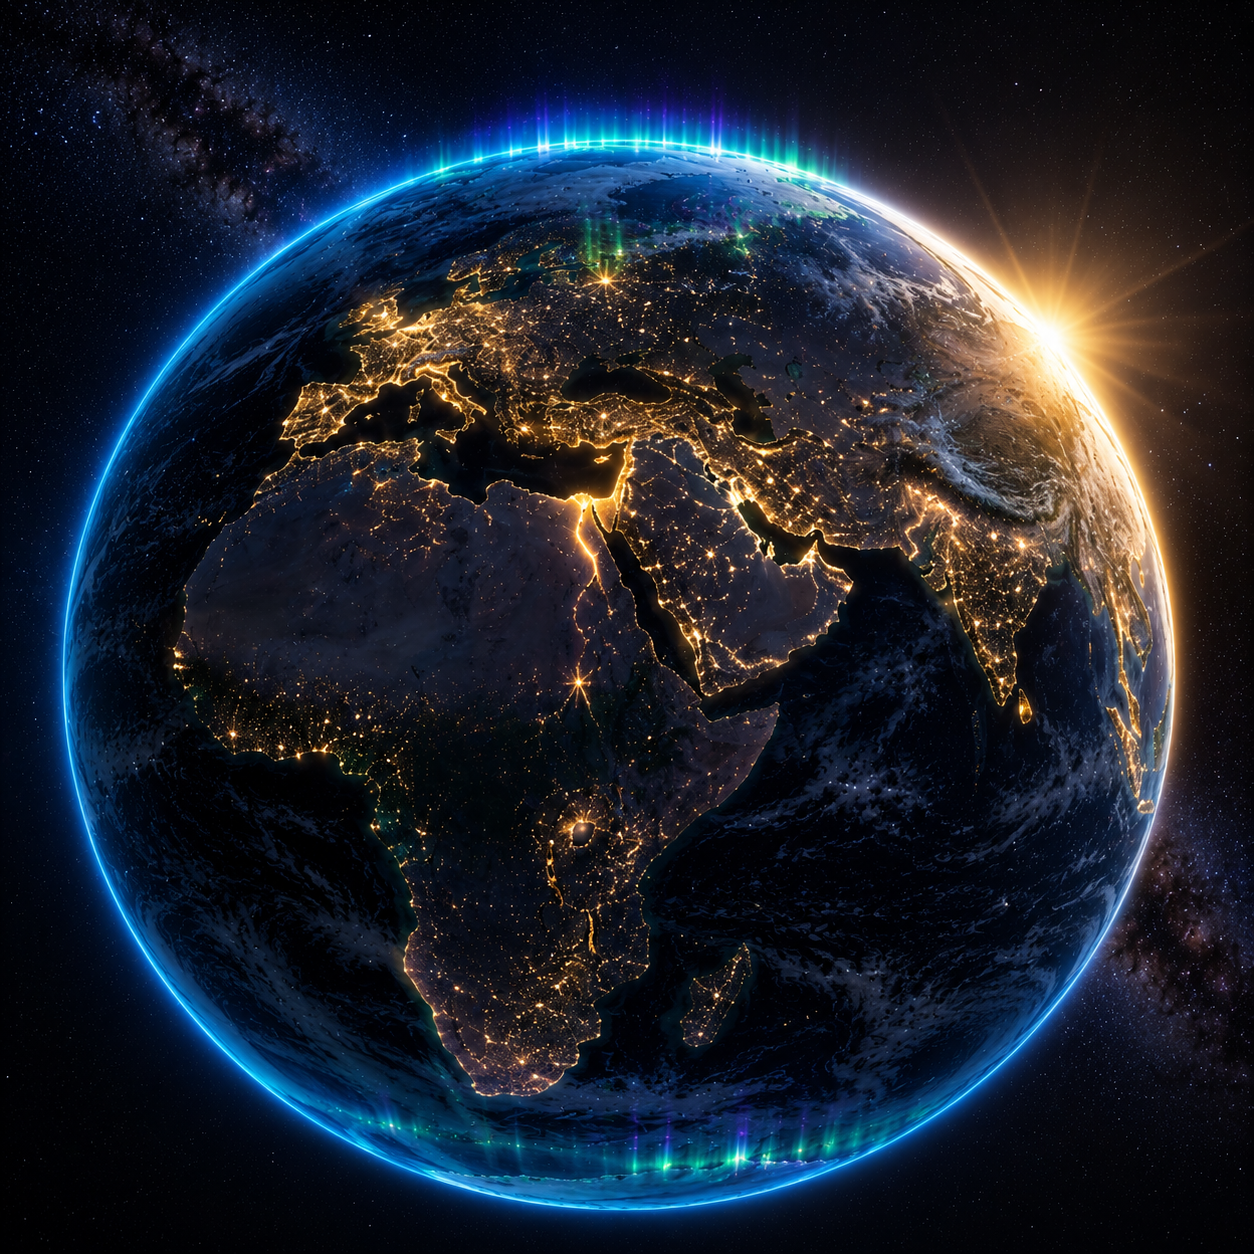
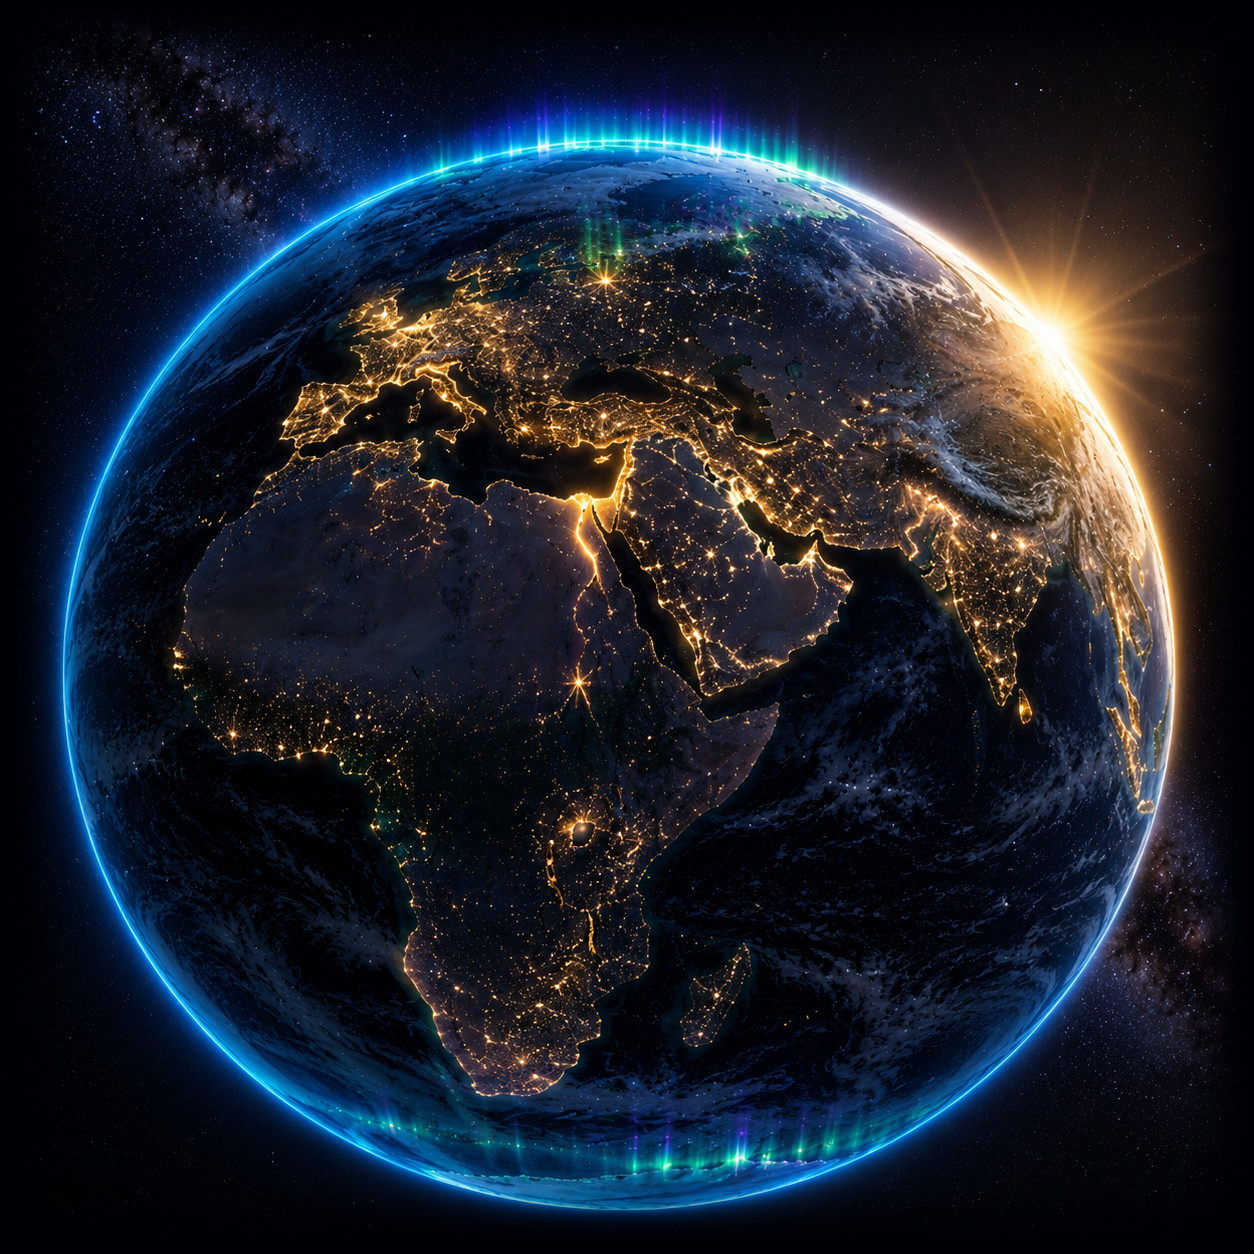
Sfondo: niente più bordi delle immagini durante lo scorrimento
- globo e terra: bordi sfumati nel nero dello sfondo (prima si vedeva il taglio verticale)
- terra e piramidi riempiono sempre lo schermo (scala minima 1.0, terra in cover)
- le due immagini erano PNG con estensione .jpg: ora JPEG veri (4,2 MB -> 0,7 MB)

diff --git a/components/SpaceScene.tsx b/components/SpaceScene.tsx
@@ -4,8 +4,8 @@ import { useEffect, useRef } from "react";
 
 const layers = [
   { src: "/3-globe.jpg", depthStart: 0, depthEnd: 0.35, scaleStart: 0.55, scaleEnd: 1.5, opacityStart: 1, opacityEnd: 0 },
-  { src: "/4-earth.jpg", depthStart: 0.25, depthEnd: 0.65, scaleStart: 0.7, scaleEnd: 1.5, opacityStart: 0, opacityEnd: 0 },
-  { src: "/5-pyramids.jpg", depthStart: 0.55, depthEnd: 1.0, scaleStart: 0.9, scaleEnd: 1.1, opacityStart: 0, opacityEnd: 1 },
+  { src: "/4-earth.jpg", depthStart: 0.25, depthEnd: 0.65, scaleStart: 1.0, scaleEnd: 1.5, opacityStart: 0, opacityEnd: 0 },
+  { src: "/5-pyramids.jpg", depthStart: 0.55, depthEnd: 1.0, scaleStart: 1.0, scaleEnd: 1.12, opacityStart: 0, opacityEnd: 1 },
 ];
 
 function lerp(a: number, b: number, t: number) {
@@ -178,7 +178,7 @@ export default function SpaceScene() {
             position: "absolute",
             inset: "-5%",
             backgroundImage: `url(${L.src})`,
-            backgroundSize: (L.src.includes("globe") || L.src.includes("earth")) ? "contain" : "cover",
+            backgroundSize: L.src.includes("globe") ? "contain" : "cover",
             backgroundRepeat: "no-repeat",
             backgroundPosition: "center",
             opacity: i === 0 ? 1 : 0,
